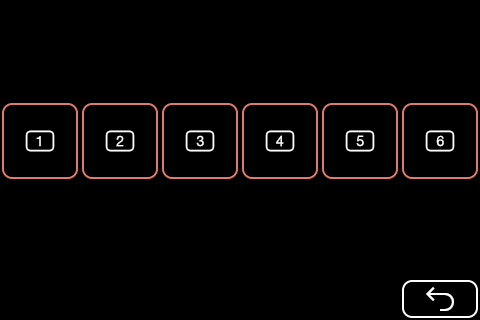
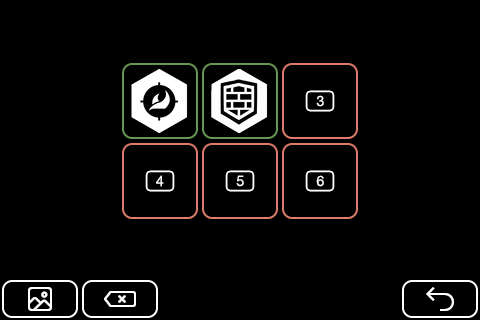
Update screens and readme

Changed region(s): [[0.0, 0.1875, 1.0, 0.6875], [0.0, 0.875, 0.3438, 1.0]]

diff --git a/README.md b/README.md
@@ -42,9 +42,11 @@ If you enjoy the project and want to support our private work feel free to make 
 
 ![](screens/setup.png)
 
-### Presets
+### Presets & User-defined icons
 
 ![](screens/preset.png)
+
+![](screens/image.png)
 
 ### Config
 
